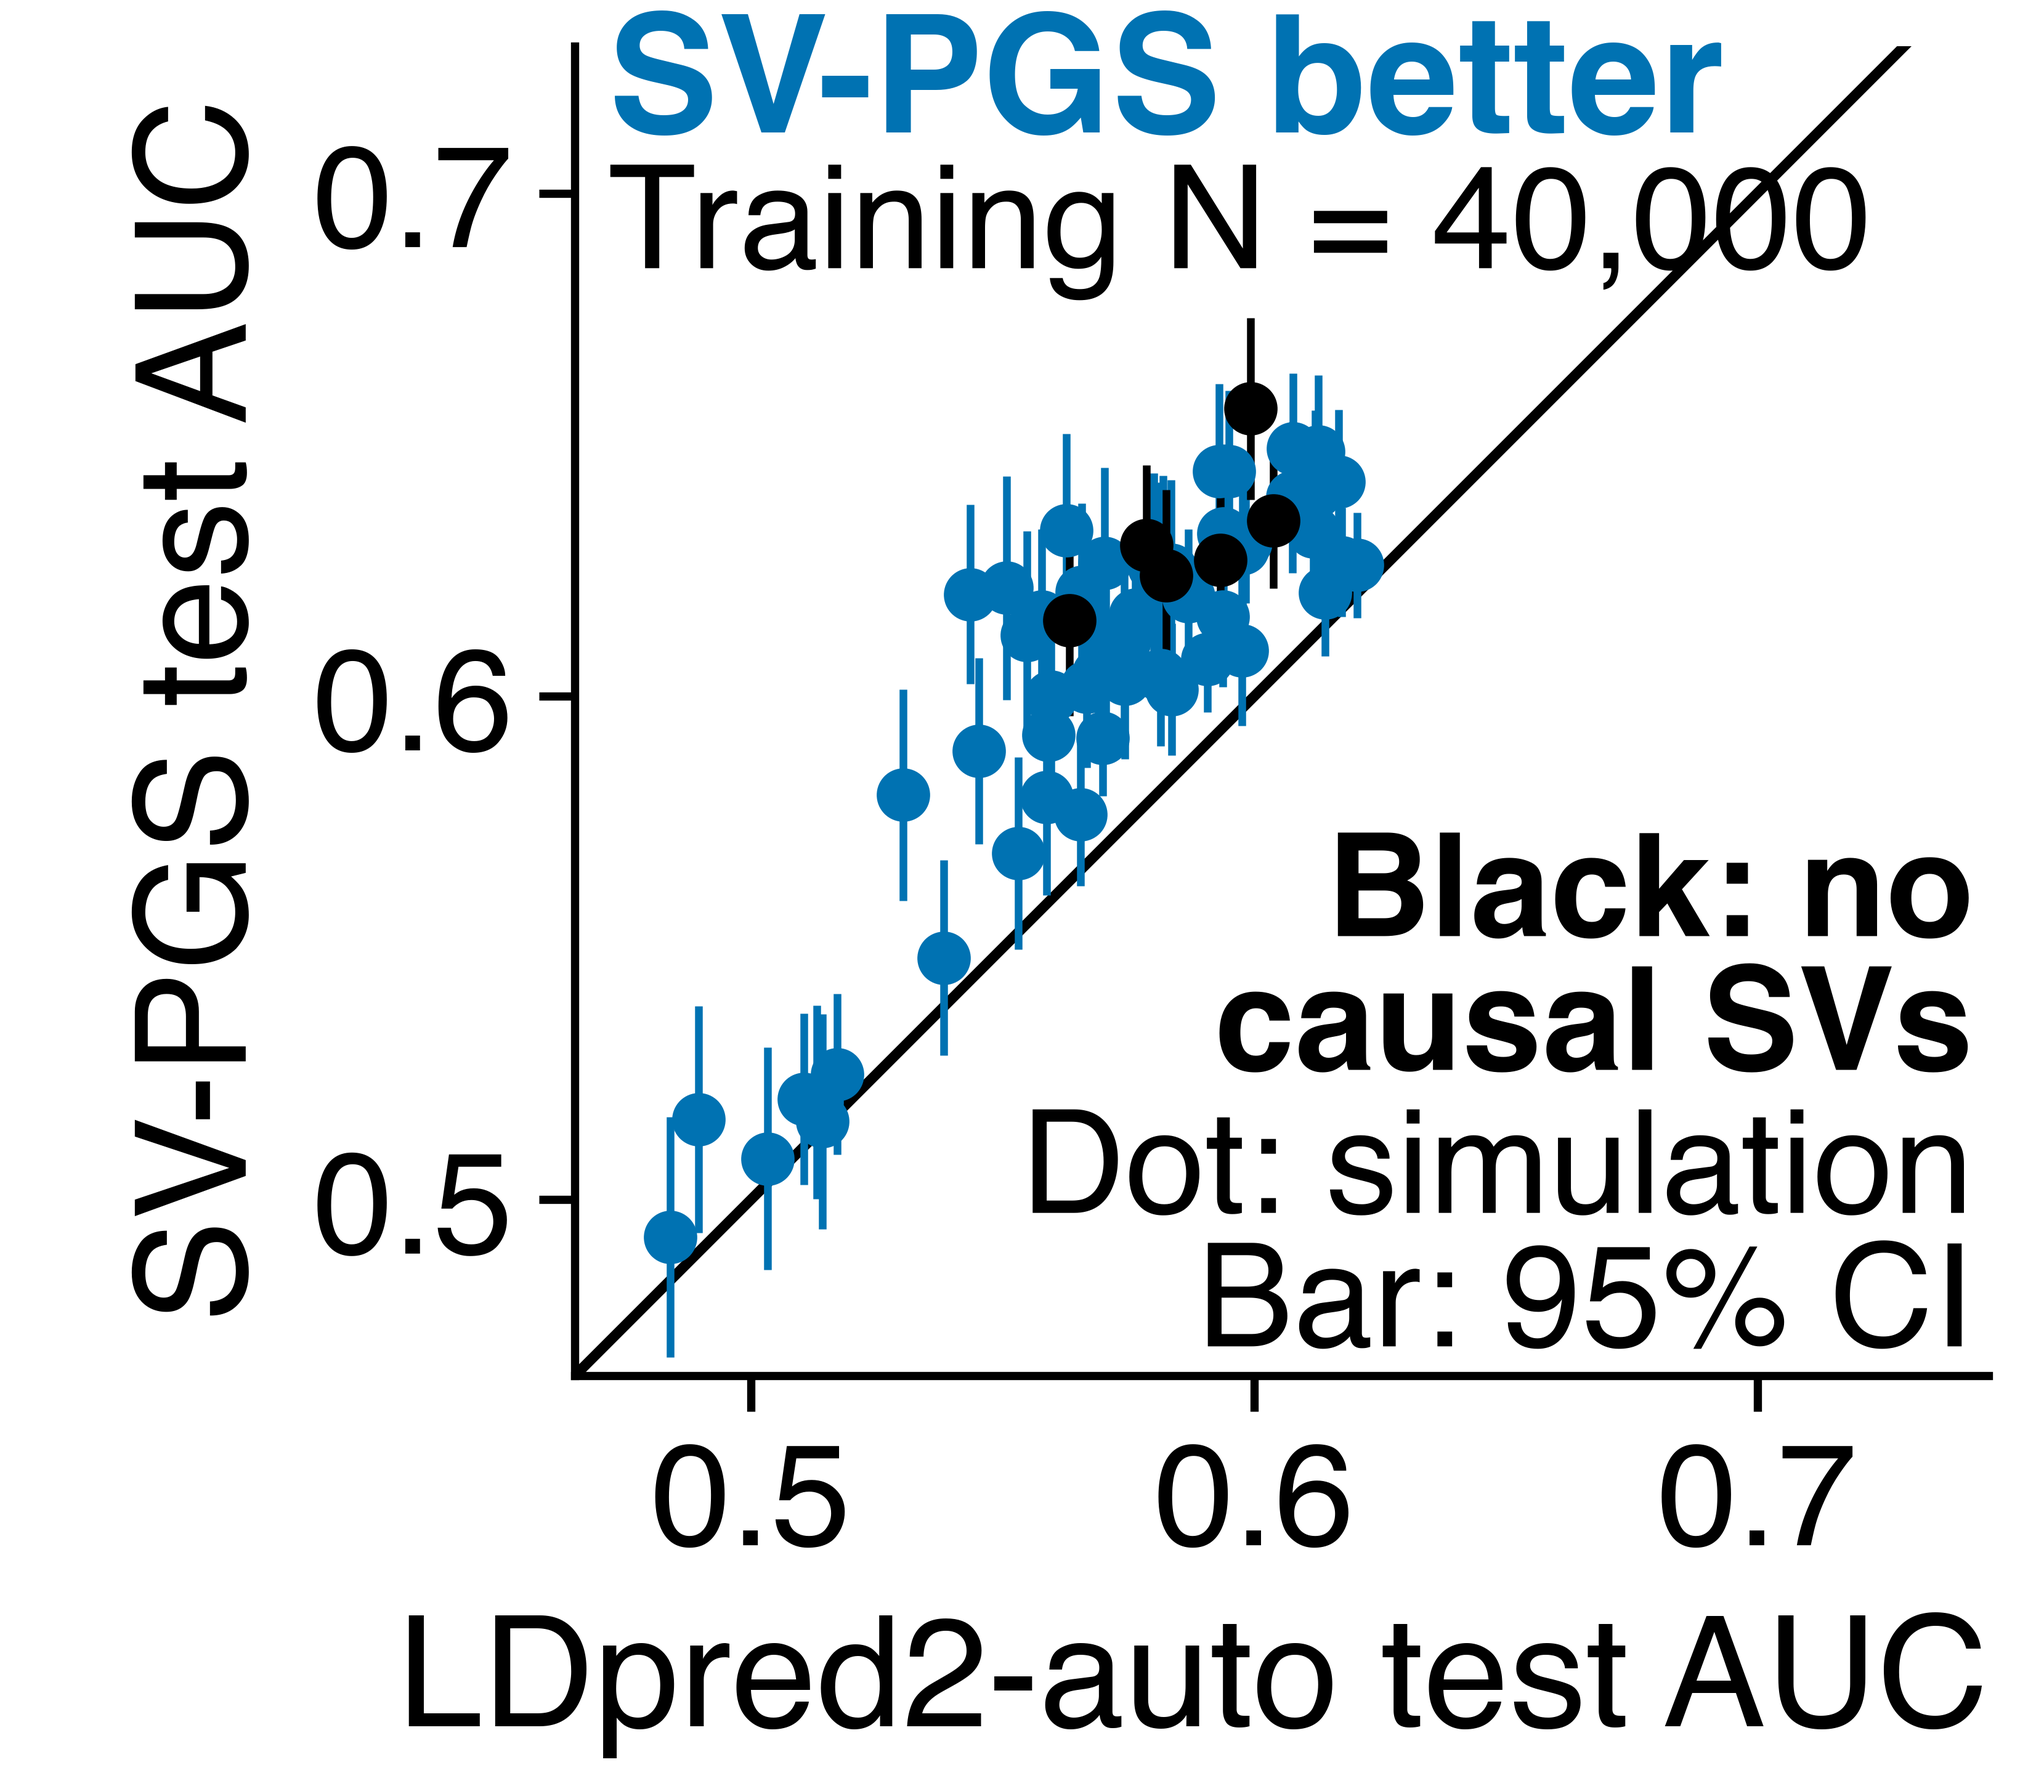
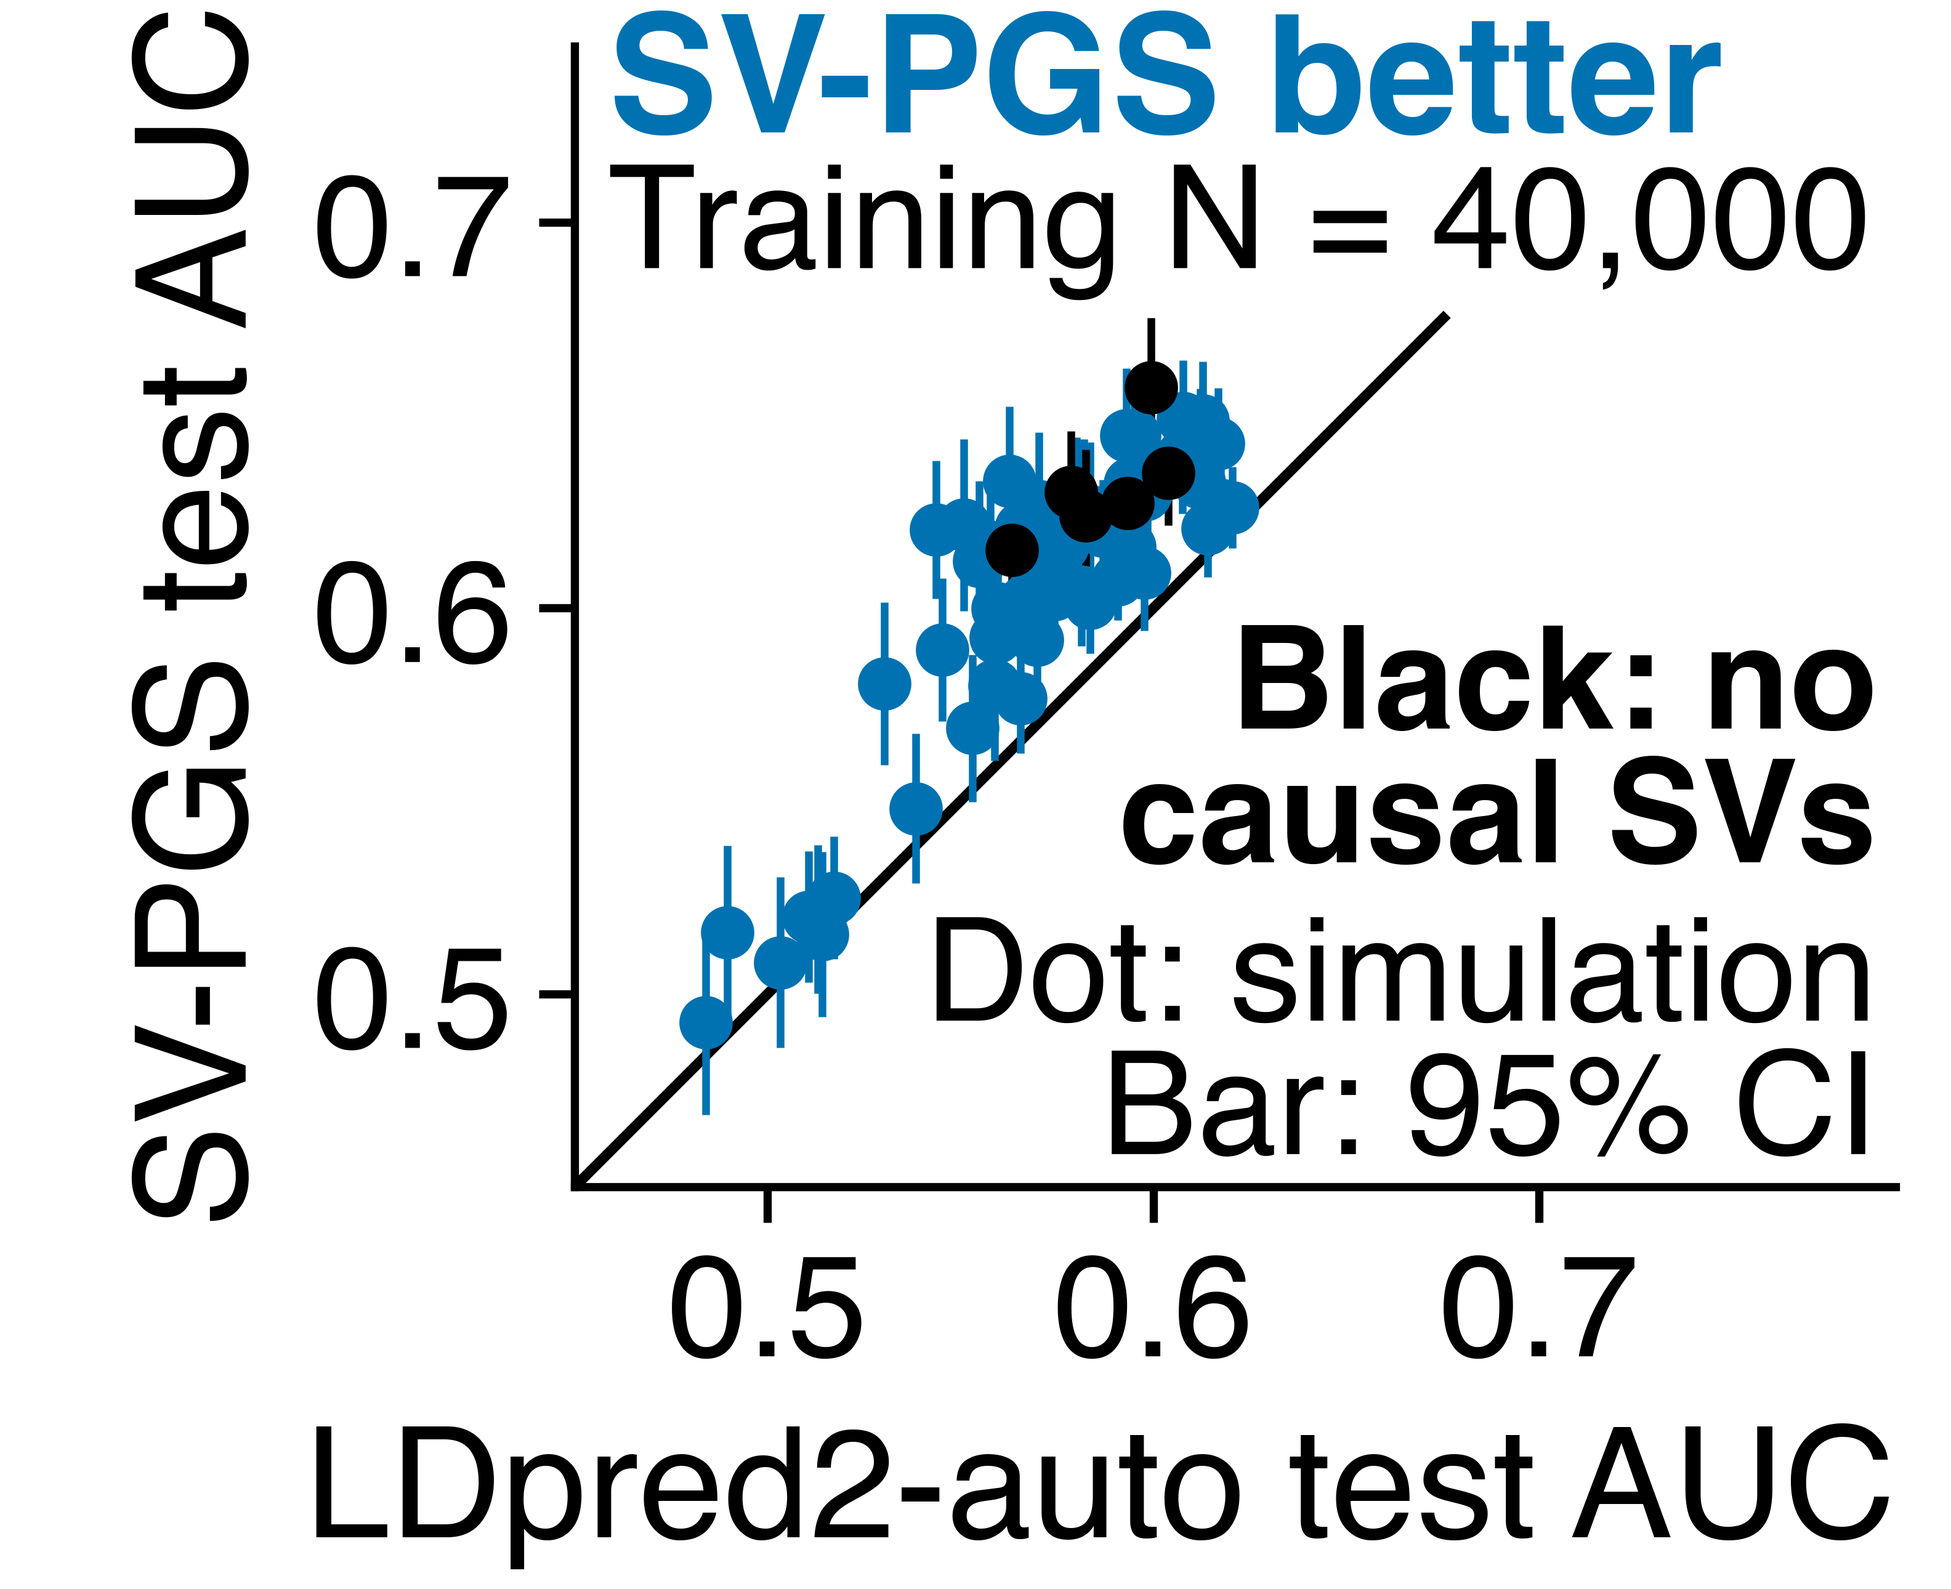
The poster's Discussion band fits the All of Us result's bullet beside the simulations' two, each on two lines (docs/poster/ashg2026/build_pptx.py, sim_gallery.py, aou_gallery.py). The QR code sits over the address and the references in small type at the band's right end, 6.3 in wide, so the bullets
To fit that version with 11 traits and the "All traits" row, these sizes changed:
- The All of Us column is 11.4 in wide and the middle column 21.92 in.
- The columns run from 5.95 to 35.45 in.
- The All of Us forest's rows are a line of type apart again.
- Its third bullet reads "HapMap3 SNVs and SVs, MAF ≥ 1%, imputation r² ≥ 0.3".
- The figures over the SV-gain forest are 8.6 in tall.
- The gain note follows them at a block's gap.
- The SV-gain forest is 8.22 in tall.

The scatter's y axis starts at 0.45. Its key to the black dots sits just over its dot and bar key, measured in inches. Its line of equal AUC stops under the two lines at its top left.

Claude-Session: https://claude.ai/code/session_01XTX1JUgLVteQ3pwSnr9aa6

Changed region(s): [[0.1562, 0.0, 0.9688, 0.8682], [0.1562, 0.8992, 0.9688, 0.9922], [0.0625, 0.0, 0.125, 0.7752]]

diff --git a/docs/poster/ashg2026/build_pptx.py b/docs/poster/ashg2026/build_pptx.py
@@ -50,12 +50,11 @@ EMU = 914400
 
 MARGIN = 0.84
 """Left and right page margins: the header band's left edge."""
-TOP, BOTTOM = 6.15, 35.3
+TOP, BOTTOM = 5.95, 35.45
 """The columns run from just under the header to the bottom margin."""
 GUTTER = 0.8
-LEFT, RIGHT = 11.4, 10.4
-"""The outer columns' widths; the middle column, the simulation's results, takes the rest of the 48 in page. The All
-of Us column is the narrowest: its figures shrink to the room it has."""
+LEFT, RIGHT = 11.4, 11.4
+"""The outer columns' widths; the middle column, the simulation's results, takes the rest of the 48 in page."""
 MIDDLE = 48 - 2 * MARGIN - 2 * GUTTER - LEFT - RIGHT
 COLUMNS = ((MARGIN, LEFT), (MARGIN + LEFT + GUTTER, MIDDLE), (48 - MARGIN - RIGHT, RIGHT))
 """Each column's left edge and width."""
@@ -177,8 +176,8 @@ def copy(numbers: dict) -> dict:
         "discussion": [
             "SV-PGS beat LDpred2-auto with and without causal SVs, so its advantage comes from the model and its "
             "larger variant set",
-            "Adding imputed SVs helped most when the causal SVs were well imputed, so the gain depends on SV "
-            "imputation accuracy",
+            "Imputed SVs helped most when the causal SVs were well imputed, so the gain depends on SV imputation "
+            "accuracy",
         ],
     }
 
@@ -191,7 +190,7 @@ def aou_matched() -> list[str]:
     # every matched run's run_config.json: fit_minimum_minor_allele_frequency 0.01, fit_minimum_r2 0.3 and
     # fit_variant_sites HapMap3, which keeps the SNVs at HapMap3 sites and every SV (workspace_pipeline.fit_filtered)
     return ["We fit SV-PGS with and without SVs and tested both in held-out people",
-            "Variants with MAF ≥ 1% and imputation r² ≥ 0.3: HapMap3 SNVs and SVs"] if rows else []
+            "HapMap3 SNVs and SVs, MAF ≥ 1%, imputation r² ≥ 0.3"] if rows else []
 
 
 def signed(share: float) -> str:
@@ -200,7 +199,7 @@ def signed(share: float) -> str:
 
 
 def aou_result() -> list[str]:
-    """What the All of Us result means, as two Discussion bullets, when aou_numbers.json's "matched" holds the traits'
+    """What the All of Us result means, as a Discussion bullet, when aou_numbers.json's "matched" holds the traits'
     "common" g: the pre-specified primary's change in r² as a fraction of the two arms' mean r², whose one-sided 95%
     upper bound ("relative_bound", in percent) caps the gain the traits could have from imputed SVs."""
     path = HERE / "aou_numbers.json"
@@ -208,9 +207,7 @@ def aou_result() -> list[str]:
     if not common:
         return []
     return [f"In All of Us, imputed SVs raised r² by at most {signed(common['relative_bound'] / 100)} across "
-            f"{common['traits']} traits, so these traits have few SVs with large effects, or their causal SVs are "
-            "poorly imputed",
-            "Long-read SV genotypes in the same people would distinguish between these two explanations"]
+            f"{common['traits']} traits, so these traits have few SVs with large effects or poorly imputed causal SVs"]
 
 
 # ------------------------------------------------------------------ DrawingML
@@ -459,16 +456,16 @@ def text(paragraphs: list[Para]) -> Block:
 
 QR = 2.6
 """Inches: the side of the QR code to the repository."""
-ENDING = 9.3
-"""Inches: the width of the QR code and the small type beside it at the right end of the Discussion band, the least that
+ENDING = 6.3
+"""Inches: the width of the QR code and the small type under it at the right end of the Discussion band, the least that
 sets the repository's address on one line."""
 
 
-def code(lines: list[str]) -> Block:
-    """A QR code to the repository with ``lines`` beside it in small type: "Code:", the address in bold, then the
-    references."""
-    return Block("qr", [Para([(line, "b" if index == 1 else "")], REFERENCE, bullet=False, after=0)
-                        for index, line in enumerate(lines)])
+def code(lines: list[str]) -> list[Block]:
+    """A QR code to the repository over ``lines`` in small type: "Code:", the address in bold, then the references."""
+    return [Block("qr", None),
+            Block("text", [Para([(line, "b" if index == 1 else "")], REFERENCE, bullet=False, after=0)
+                           for index, line in enumerate(lines)])]
 
 
 def row(*children: list, shares: tuple = ()) -> Block:
@@ -576,10 +573,6 @@ class Poster:
         elif block.kind == "qr":
             self.shapes.append(image(self.fresh(), "Repository QR code", self.image(self.qr), x + INSET, y, QR, QR,
                                      "QR code to github.com/SauersML/SV-PGS"))
-            words = sum(para.height(width - QR - 3 * INSET) for para in block.content)
-            paragraphs = "".join(para.xml() for para in block.content)
-            self.shapes.append(textbox(self.fresh(), "Repository", x + QR + INSET, y + (QR - words) / 2,
-                                       width - QR - INSET, words, paragraphs))
         elif block.kind == "row":
             for child, part in zip(block.children, parts(block, width)):
                 self.stack(child, x, y, part, None)
@@ -678,7 +671,7 @@ def build() -> None:
             Block("text", [Para([(line, "")], bullet=False, after=0) for line in [words["whole_note"], *words["compared"]]]),
             row([figure(gallery["poster_accuracy_by_training_size"], legend=GALLERY / "fig1_accuracy_by_training_size.txt")],
                 [figure(gallery["poster_wins"], legend=GALLERY / "fig2_gain_over_ldpred2.txt")]),
-            Block("text", [Para([(words["gain_note"], "")], bullet=False, after=0)], gap="section"),
+            Block("text", [Para([(words["gain_note"], "")], bullet=False, after=0)]),
             figure(gallery["poster_sv_gain"]),
         ],
         [bar(119, "All of Us"), text(bullets(words["aou"])), *aou_blocks()],
@@ -686,7 +679,7 @@ def build() -> None:
     poster = Poster(xml, rels, work / "ppt/media")
     across = COLUMNS[2][0] + RIGHT - COLUMNS[1][0]
     references = [f"{SUPERSCRIPT[index]}{reference}" for index, reference in enumerate(REFERENCES, start=1)]
-    band = [discussion[0], row(discussion[1:], [code([*words["code"], *references])],
+    band = [discussion[0], row(discussion[1:], code([*words["code"], *references]),
                                shares=(1 - ENDING / (across - GUTTER), ENDING / (across - GUTTER)))]
     top = BOTTOM - poster.stack_height(band, across)
     poster.stack(band, COLUMNS[1][0], top, across, None)

diff --git a/docs/poster/ashg2026/sim_gallery.py b/docs/poster/ashg2026/sim_gallery.py
@@ -811,10 +811,10 @@ sources written beside their marks. A poster figure carries no legend and no tit
 figure's own labels, state its message."""
 POSTER_LINE, POSTER_MARK, POSTER_BAR = 8.0, 26.0, 6.0
 """Points: a data line's width, a mean's marker and an interval's line in the poster's figures."""
-POSTER_HEIGHT = 9.62
+POSTER_HEIGHT = 8.6
 """Inches: the height of the two figures side by side at the top of the poster's middle column."""
-POSTER_HALF = 11.06
-"""Inches: the width each of those two figures is placed at (half of build_pptx.py's 22.92 in middle column less its
+POSTER_HALF = 10.56
+"""Inches: the width each of those two figures is placed at (half of build_pptx.py's 21.92 in middle column less its
 0.8 in gutter), so their type prints at its own size."""
 POSTER_STYLE = {
     "font.size": POSTER_TYPE, "axes.labelsize": POSTER_LABEL, "xtick.labelsize": POSTER_TYPE,
@@ -962,12 +962,14 @@ def poster_wins_figure(grids):
     lines = ("SV-PGS better", f"Training N = {size:,}")
     first = tallest(fig, [lines[0]], fontsize=POSTER_NAME, fontweight="bold")
     need = first + tallest(fig, [lines[1]], fontsize=POSTER_TYPE) - WINS_ABOVE + POSTER_PAD
-    # one scale on both axes, so the line of equal AUC runs at 45 degrees: up the y axis from 0.465 to at least 0.705,
+    # one scale on both axes, so the line of equal AUC runs at 45 degrees: up the y axis from 0.45 to at least 0.705,
     # and far enough that the second line clears the highest bar, and along the x axis at the same scale
-    low, reach = 0.465, (ours + half).max()
+    low, reach = 0.45, (ours + half).max()
     upper = max(0.705, (reach * height - low * need) / (height - need))
     right = low + (upper - low) / height * width
-    ax.axline((low, low), slope=1, color=INK, linewidth=4.0, zorder=1)
+    # the line of equal AUC stops under the two lines at the top left
+    end = upper - need * (upper - low) / height
+    ax.plot([low, end], [low, end], color=INK, linewidth=4.0, zorder=1)
     for chosen, color in ((~null, SV_PGS), (null, INK)):
         ax.vlines(theirs[chosen], ours[chosen] - half[chosen], ours[chosen] + half[chosen], color=color,
                   linewidth=POSTER_BAR * 0.5, zorder=2)
@@ -989,21 +991,24 @@ def poster_wins_figure(grids):
             fontsize=POSTER_NAME, fontweight="bold", ha="left", va="top")
     ax.text(0, 1, lines[1], transform=shifted(ax, WINS_INDENT, WINS_ABOVE - first, data_rows=False), color=INK,
             ha="left", va="top")
-    # under the line, where no dot falls: what a dot and its bar are at the foot, the key to the black dots over them
-    ax.text(right - 0.003, low + 0.003, "Dot: simulation\nBar: 95% CI", color=INK, ha="right", va="bottom",
-            linespacing=1.0)
-    ax.text(right - 0.003, low + 0.058, "Black: no\ncausal SVs", color=INK, fontweight="bold", ha="right", va="bottom",
-            linespacing=1.0)
+    # under the line, where no dot falls: what a dot and its bar are at the foot, the key to the black dots just
+    # over them
+    foot = "Dot: simulation\nBar: 95% CI"
+    ax.text(1, 0, foot, transform=shifted(ax, -POSTER_PAD, POSTER_PAD, data_rows=False), color=INK, ha="right",
+            va="bottom", linespacing=1.0)
+    over = POSTER_PAD + tallest(fig, [foot], fontsize=POSTER_TYPE, linespacing=1.0) + 0.15
+    ax.text(1, 0, "Black: no\ncausal SVs", transform=shifted(ax, -POSTER_PAD, over, data_rows=False), color=INK,
+            fontweight="bold", ha="right", va="bottom", linespacing=1.0)
     return fig
 
 
 WELL_IMPUTED = ("tagged_sv", "tagged_sv_fold3")
 """The architectures whose causal SVs are drawn only from SVs that Beagle imputed with realized r² ≥ 0.8 (grid.py's
 sv_min_realized_r2)."""
-POSTER_GAIN, POSTER_GENOTYPES = 22.92, 11.4
+POSTER_GAIN, POSTER_GENOTYPES = 21.92, 11.4
 """Inches: the widths of the SV gain forest (the poster's middle column, build_pptx.py's MIDDLE) and the imputation
 figure (the left column, LEFT), each placed at its column's full width."""
-POSTER_GAIN_HEIGHT = 8.5
+POSTER_GAIN_HEIGHT = 8.22
 """Inches: the SV gain forest's height, which fills the middle column from the training-size figures to the band of
 Discussion, code and references at its foot (build_pptx.py's layout)."""
 GAIN_WEIGHT, GAIN_OFFSET = 2.0, 0.24

diff --git a/tests/test_poster_figures.py b/tests/test_poster_figures.py
@@ -149,8 +149,6 @@ def test_the_discussion_bounds_the_common_all_of_us_gain_only_when_it_is_given(m
     assert build_pptx.aou_result() == []
     (tmp_path / "aou_numbers.json").write_text(json.dumps({"matched": {"rows": [], "common": {
         "relative": -2.0, "relative_lower": -4.0, "relative_upper": 0.5, "relative_bound": 0.1, "traits": 10}}}))
-    bound, follow_up = build_pptx.aou_result()
     # the primary's one-sided 95% upper bound on the common g
-    assert bound == ("In All of Us, imputed SVs raised r² by at most 0.1% across 10 traits, so these traits have few "
-                     "SVs with large effects, or their causal SVs are poorly imputed")
-    assert follow_up == "Long-read SV genotypes in the same people would distinguish between these two explanations"
+    assert build_pptx.aou_result() == ["In All of Us, imputed SVs raised r² by at most 0.1% across 10 traits, so these "
+                                       "traits have few SVs with large effects or poorly imputed causal SVs"]

diff --git a/docs/poster/ashg2026/aou_gallery.py b/docs/poster/ashg2026/aou_gallery.py
@@ -39,7 +39,7 @@ from sim_gallery import (INK, POSTER_BAR, POSTER_LABEL, POSTER_MARK, POSTER_PAD,
 HERE = Path(__file__).resolve().parent
 NUMBERS = HERE / "aou_numbers.json"
 OUT = HERE / "figures"
-COLUMN = 10.4
+COLUMN = 11.4
 """Inches: the poster's right column (build_pptx.py's RIGHT), each figure's width, so its type prints at its own size."""
 ROW_GAP = 0.05
 """Inches between one row's name and the next row's: a row is a line of poster type and this gap."""
